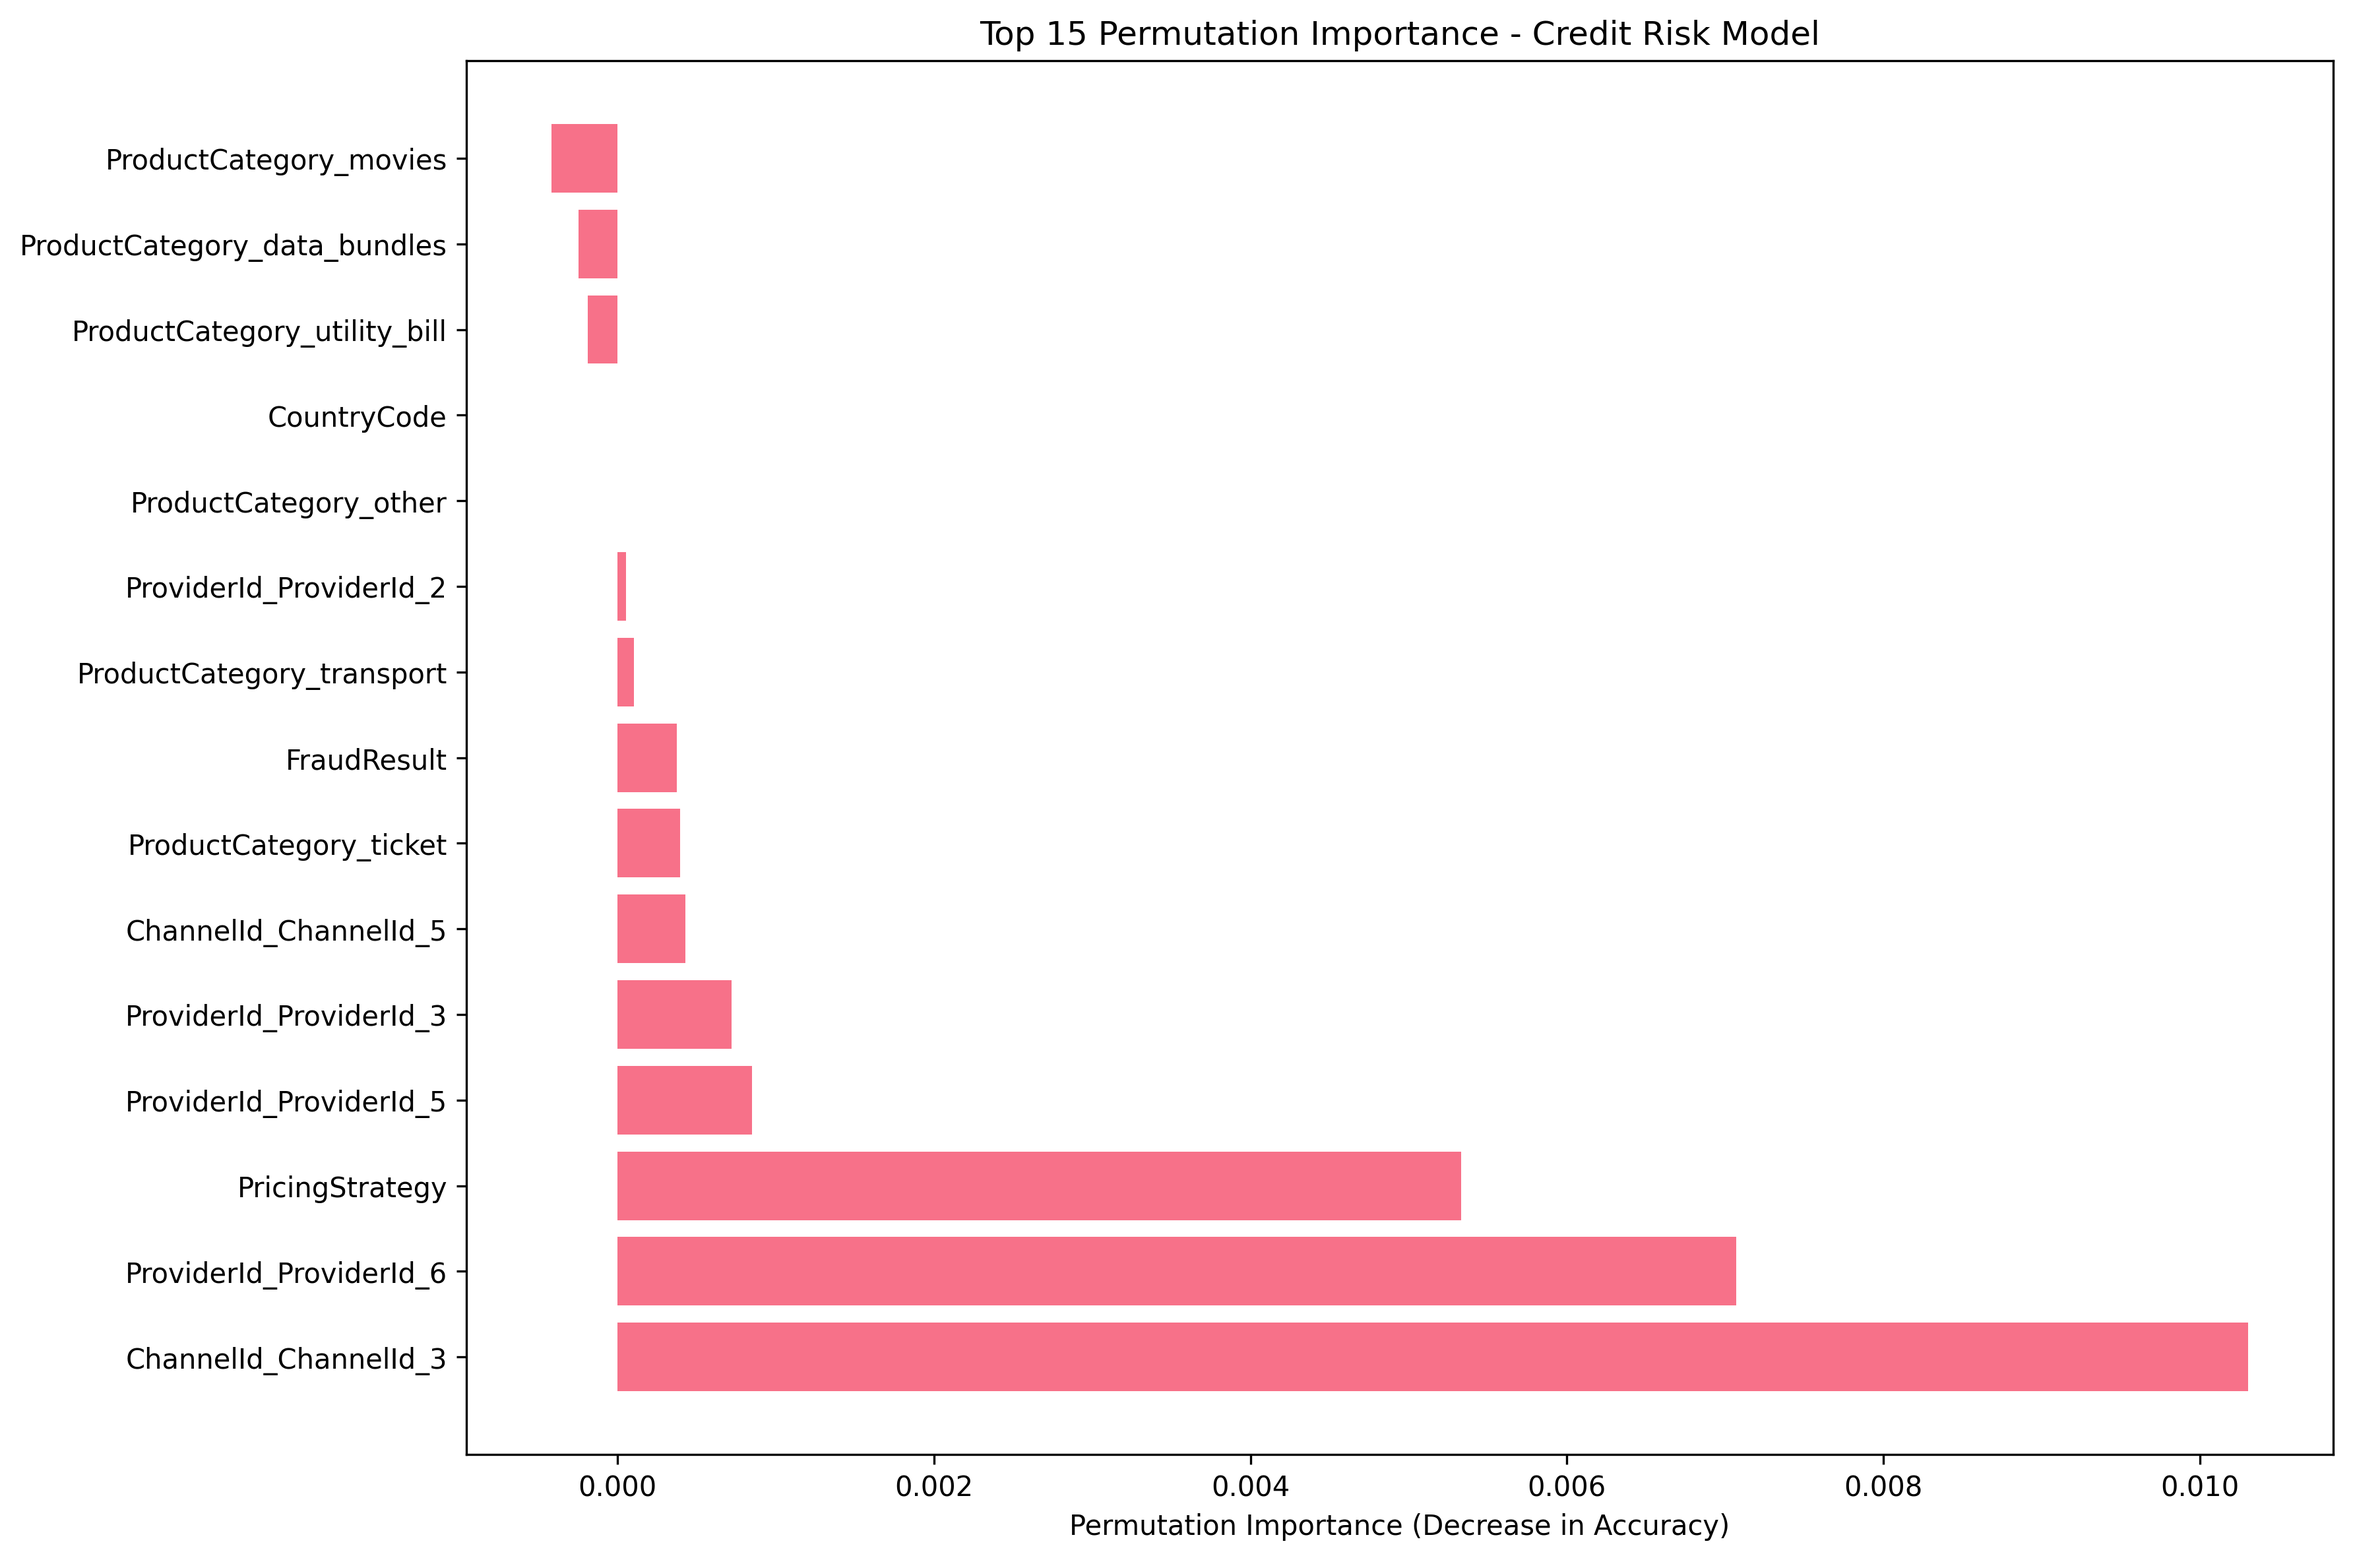
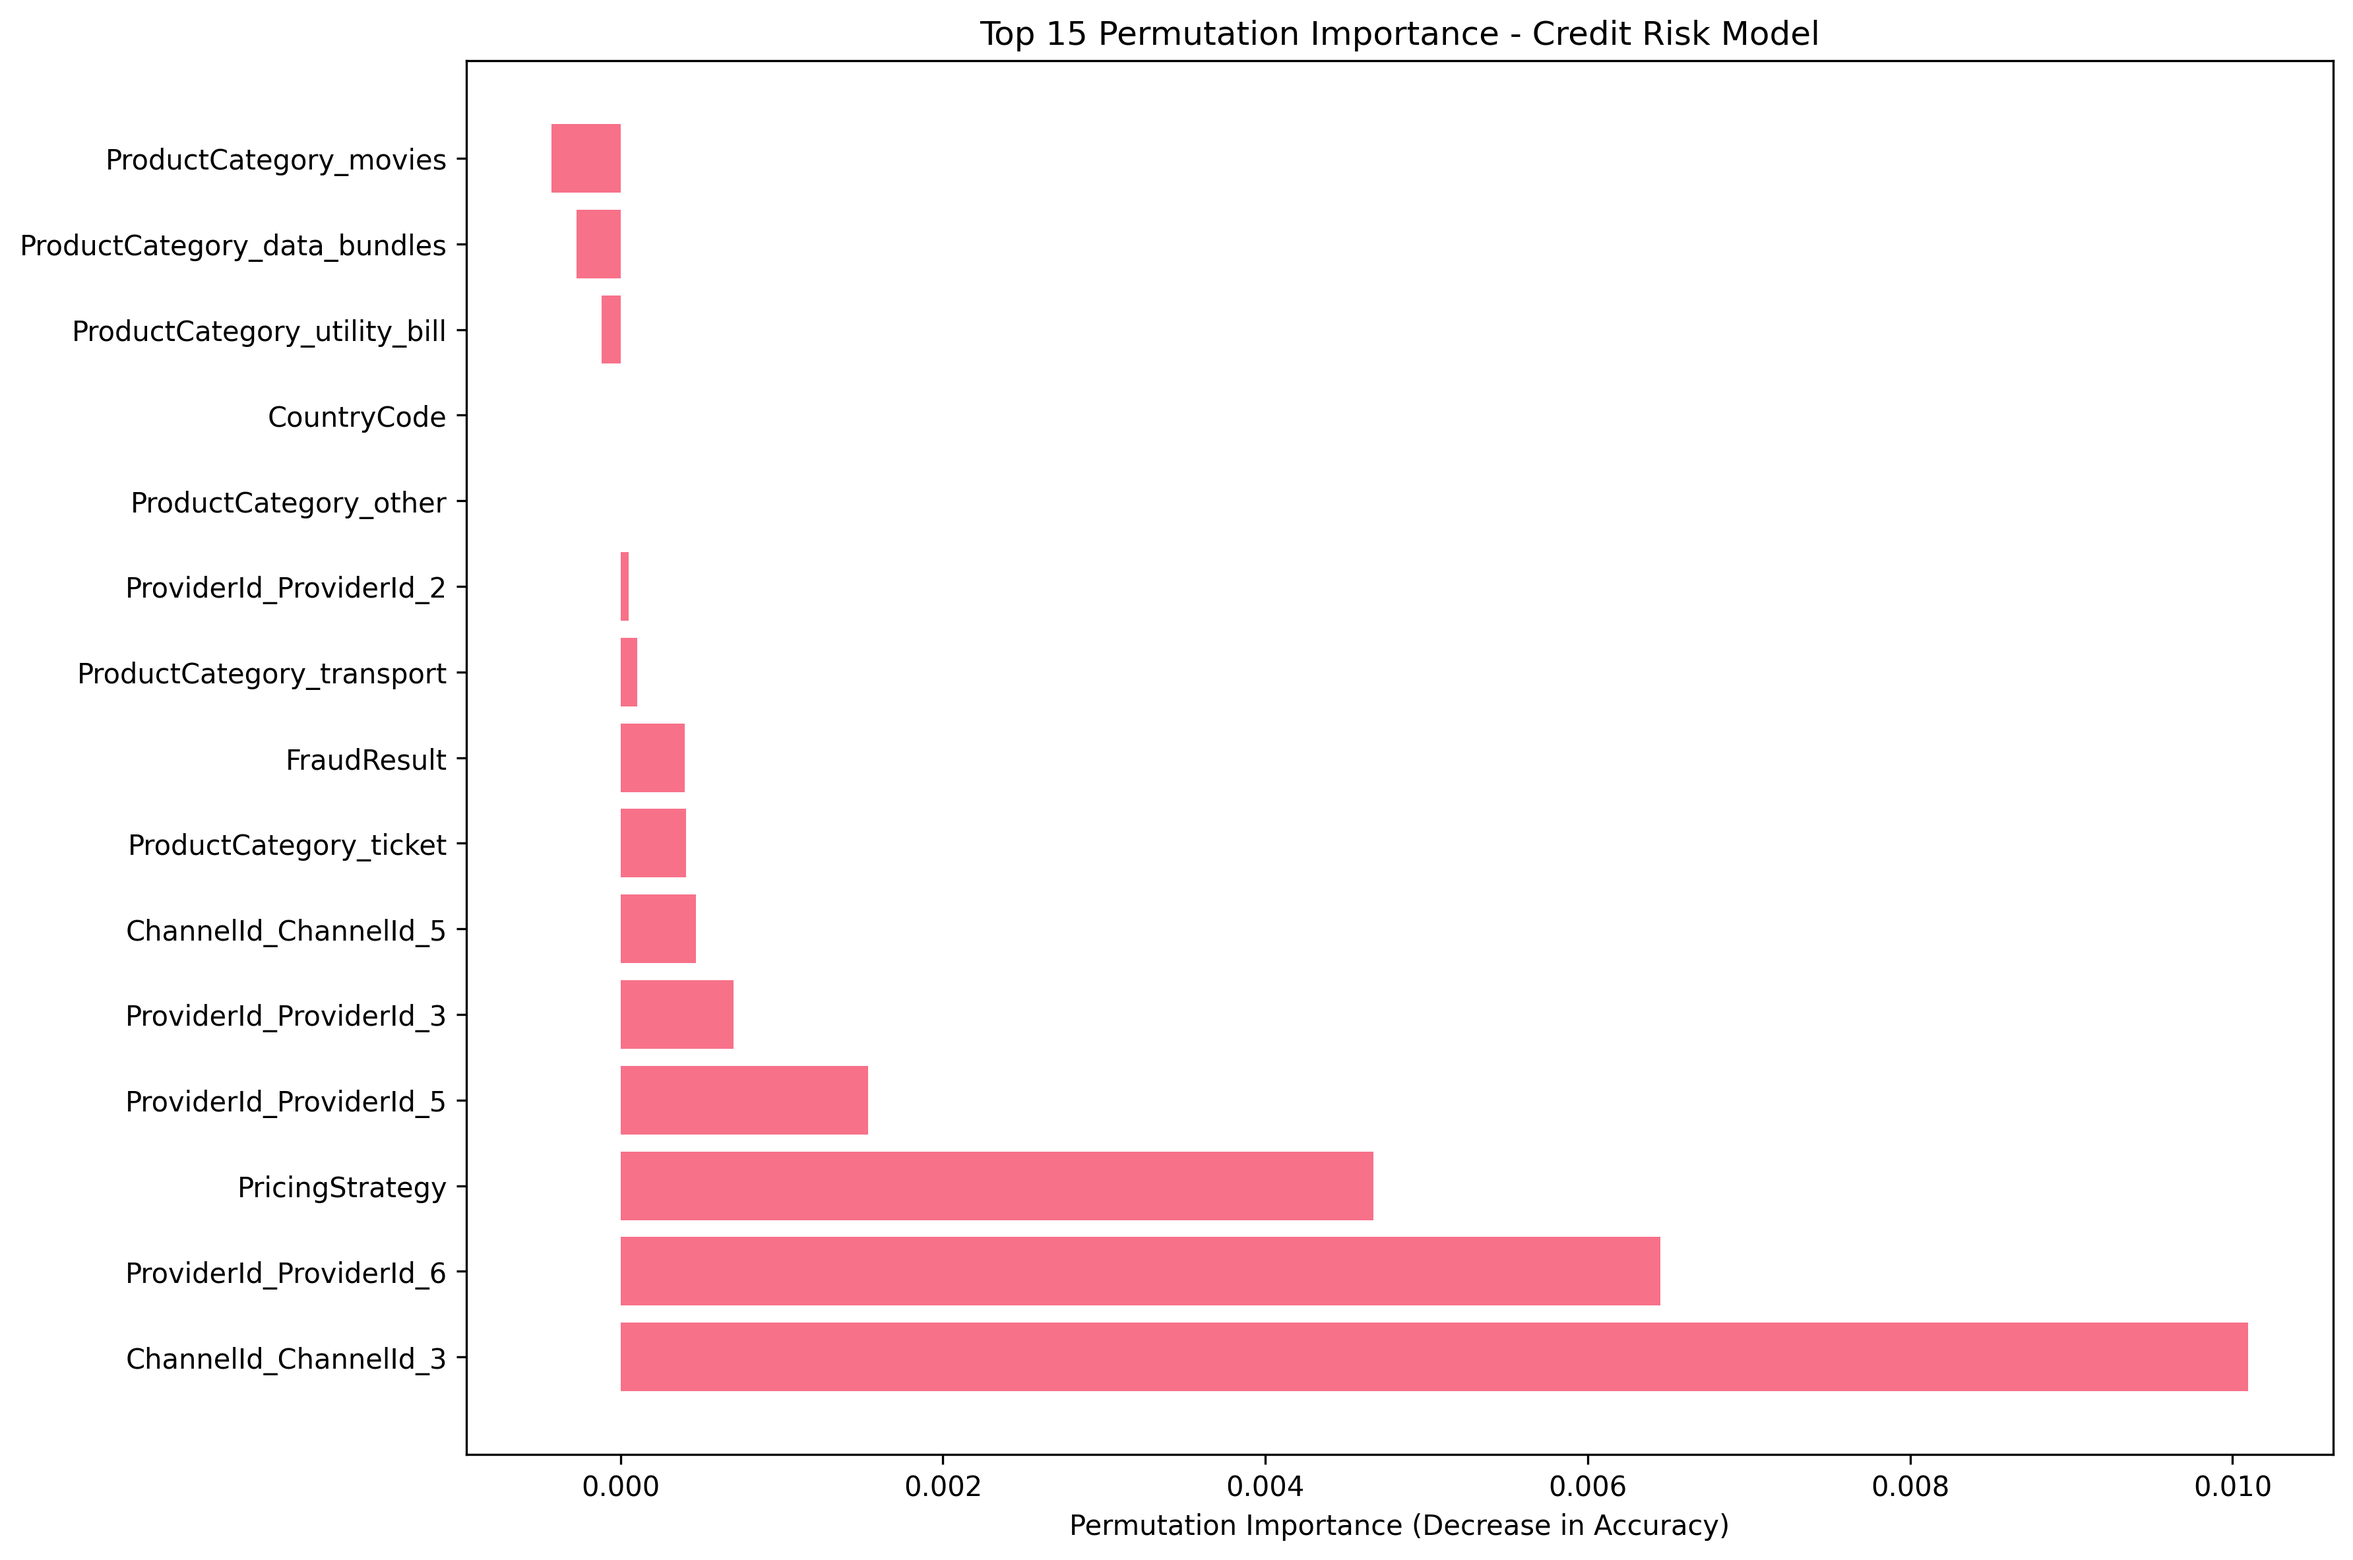
Fixed visualizations: All plots generated successfully

diff --git a/src/generate_visualizations.py b/src/generate_visualizations.py
@@ -1,0 +1,297 @@
+#!/usr/bin/env python3
+"""
+Generate Visualizations - Credit Risk Project
+==========================================
+
+Create all required visualizations for the project.
+Focus on working plots that display correctly.
+"""
+
+import pandas as pd
+import numpy as np
+import matplotlib
+matplotlib.use('Agg')  # Use non-interactive backend
+import matplotlib.pyplot as plt
+import seaborn as sns
+import joblib
+import warnings
+warnings.filterwarnings('ignore')
+
+# Set style for better plots
+plt.style.use('default')
+sns.set_palette("husl")
+
+def load_model_and_data():
+    """Load model and data for visualization."""
+    try:
+        # Load model
+        model_bundle = joblib.load('random_forest_weighted_balanced.joblib')
+        model = model_bundle['model']
+        feature_names = model_bundle['feature_names']
+        class_names = model_bundle['class_names']
+        
+        # Load data
+        df = pd.read_csv('data/processed/final_customer_data_cleaned.csv')
+        
+        print(f"Loaded model: {type(model).__name__}")
+        print(f"Features: {len(feature_names)}")
+        print(f"Classes: {class_names}")
+        print(f"Data shape: {df.shape}")
+        
+        return model, feature_names, class_names, df
+    except Exception as e:
+        print(f"Error loading data: {e}")
+        return None, None, None, None
+
+def create_feature_importance_plot(model, feature_names):
+    """Create feature importance visualization."""
+    print("Creating feature importance plot...")
+    
+    # Get feature importances
+    importances = model.feature_importances_
+    
+    # Create DataFrame
+    feature_importance_df = pd.DataFrame({
+        'feature': feature_names,
+        'importance': importances
+    }).sort_values('importance', ascending=False)
+    
+    # Create plot
+    plt.figure(figsize=(12, 8))
+    top_features = feature_importance_df.head(15)
+    
+    plt.barh(range(len(top_features)), top_features['importance'])
+    plt.yticks(range(len(top_features)), top_features['feature'])
+    plt.xlabel('Feature Importance')
+    plt.title('Top 15 Feature Importance - Credit Risk Model')
+    plt.tight_layout()
+    
+    # Save plot
+    plt.savefig('feature_importance.png', dpi=300, bbox_inches='tight')
+    plt.close()
+    
+    print("✅ Feature importance plot saved as 'feature_importance.png'")
+    return feature_importance_df
+
+def create_partial_dependence_plot(df, feature_names):
+    """Create partial dependence style visualization."""
+    print("Creating partial dependence plot...")
+    
+    # Create subplots
+    fig, axes = plt.subplots(2, 2, figsize=(15, 12))
+    axes = axes.ravel()
+    
+    # Select numeric features to analyze
+    numeric_features = ['Amount', 'Value', 'PricingStrategy', 'FraudResult']
+    
+    colors = ['blue', 'green', 'orange', 'red']
+    
+    for i, feature in enumerate(numeric_features[:4]):
+        if i >= len(axes):
+            break
+        
+        if feature in df.columns:
+            # Create feature distribution by risk level
+            ax = axes[i]
+            
+            # Plot distribution for each risk level
+            for risk_level, color in zip(df['Risk_Label'].unique(), colors):
+                subset = df[df['Risk_Label'] == risk_level]
+                ax.hist(subset[feature], bins=30, alpha=0.6, label=risk_level, color=color, density=True)
+            
+            ax.set_xlabel(feature)
+            ax.set_ylabel('Density')
+            ax.set_title(f'{feature} Distribution by Risk Level')
+            ax.legend()
+            ax.grid(True, alpha=0.3)
+        else:
+            # If feature not found, create placeholder
+            axes[i].text(0.5, 0.5, f'{feature}\nNot Available', 
+                        ha='center', va='center', transform=axes[i].transAxes)
+            axes[i].set_title(f'{feature} - Data Not Available')
+    
+    plt.tight_layout()
+    plt.savefig('partial_dependence.png', dpi=300, bbox_inches='tight')
+    plt.close()
+    
+    print("✅ Partial dependence plot saved as 'partial_dependence.png'")
+
+def create_permutation_importance_plot(model, X_test, y_test, feature_names):
+    """Create permutation importance visualization."""
+    print("Creating permutation importance plot...")
+    
+    from sklearn.inspection import permutation_importance
+    
+    # Calculate permutation importance
+    perm_importance = permutation_importance(model, X_test, y_test, 
+                                         n_repeats=5, random_state=42)
+    
+    # Create DataFrame
+    perm_df = pd.DataFrame({
+        'feature': feature_names,
+        'importance': perm_importance.importances_mean,
+        'std': perm_importance.importances_std
+    }).sort_values('importance', ascending=False)
+    
+    # Create plot
+    plt.figure(figsize=(12, 8))
+    top_perm = perm_df.head(15)
+    
+    plt.barh(range(len(top_perm)), top_perm['importance'])
+    plt.yticks(range(len(top_perm)), top_perm['feature'])
+    plt.xlabel('Permutation Importance (Decrease in Accuracy)')
+    plt.title('Top 15 Permutation Importance - Credit Risk Model')
+    plt.tight_layout()
+    
+    # Save plot
+    plt.savefig('permutation_importance.png', dpi=300, bbox_inches='tight')
+    plt.close()
+    
+    print("✅ Permutation importance plot saved as 'permutation_importance.png'")
+    return perm_df
+
+def create_risk_distribution_plot(df):
+    """Create risk distribution visualization."""
+    print("Creating risk distribution plot...")
+    
+    # Create figure with subplots
+    fig, axes = plt.subplots(2, 2, figsize=(15, 12))
+    axes = axes.ravel()
+    
+    # 1. Risk distribution pie chart
+    risk_counts = df['Risk_Label'].value_counts()
+    colors = ['red', 'orange', 'green']
+    
+    axes[0].pie(risk_counts.values, labels=risk_counts.index, autopct='%1.0f%%', 
+                colors=colors, startangle=90)
+    axes[0].set_title('Risk Distribution')
+    
+    # 2. Transaction amount by risk
+    sns.boxplot(data=df, x='Risk_Label', y='Amount', ax=axes[1])
+    axes[1].set_title('Transaction Amount by Risk Level')
+    axes[1].tick_params(axis='x', rotation=45)
+    
+    # 3. Risk by Provider
+    provider_risk = pd.crosstab(df['ProviderId'], df['Risk_Label'])
+    provider_risk.plot(kind='bar', stacked=True, ax=axes[2])
+    axes[2].set_title('Risk Distribution by Provider')
+    axes[2].tick_params(axis='x', rotation=45)
+    
+    # 4. Risk by Product Category
+    category_risk = pd.crosstab(df['ProductCategory'], df['Risk_Label'])
+    category_risk.plot(kind='bar', stacked=True, ax=axes[3])
+    axes[3].set_title('Risk Distribution by Product Category')
+    axes[3].tick_params(axis='x', rotation=45)
+    
+    plt.tight_layout()
+    plt.savefig('risk_distribution.png', dpi=300, bbox_inches='tight')
+    plt.close()
+    
+    print("✅ Risk distribution plot saved as 'risk_distribution.png'")
+
+def create_model_performance_plot():
+    """Create model performance comparison plot."""
+    print("Creating model performance plot...")
+    
+    # Model performance data
+    models = ['Random Forest\n(Weighted)', 'Logistic Regression\n(Balanced)', 'Random Forest\n(Balanced)']
+    accuracy = [0.247, 0.633, 0.580]
+    roc_auc = [0.713, 0.631, 0.728]
+    business_cost = [2067100, 3519700, 2676000]
+    
+    # Create subplots
+    fig, axes = plt.subplots(1, 3, figsize=(18, 6))
+    
+    # Accuracy comparison
+    axes[0].bar(models, accuracy, color=['green', 'blue', 'orange'])
+    axes[0].set_title('Model Accuracy Comparison')
+    axes[0].set_ylabel('Accuracy')
+    axes[0].tick_params(axis='x', rotation=45)
+    
+    # ROC-AUC comparison
+    axes[1].bar(models, roc_auc, color=['green', 'blue', 'orange'])
+    axes[1].set_title('ROC-AUC Comparison')
+    axes[1].set_ylabel('ROC-AUC')
+    axes[1].tick_params(axis='x', rotation=45)
+    
+    # Business cost comparison
+    axes[2].bar(models, business_cost, color=['green', 'blue', 'orange'])
+    axes[2].set_title('Business Cost Comparison')
+    axes[2].set_ylabel('Business Cost ($)')
+    axes[2].tick_params(axis='x', rotation=45)
+    
+    plt.tight_layout()
+    plt.savefig('model_performance.png', dpi=300, bbox_inches='tight')
+    plt.close()
+    
+    print("✅ Model performance plot saved as 'model_performance.png'")
+
+def main():
+    """Main visualization generation pipeline."""
+    print("="*60)
+    print("GENERATING VISUALIZATIONS - CREDIT RISK PROJECT")
+    print("="*60)
+    
+    # Load model and data
+    model, feature_names, class_names, df = load_model_and_data()
+    if model is None:
+        return
+    
+    # Create feature importance plot
+    feature_importance_df = create_feature_importance_plot(model, feature_names)
+    
+    # Create partial dependence plot
+    create_partial_dependence_plot(df, feature_names)
+    
+    # Create permutation importance plot
+    # Prepare data for permutation importance
+    from sklearn.model_selection import train_test_split
+    from sklearn.preprocessing import StandardScaler, LabelEncoder
+    
+    # Prepare features
+    numeric_features = ['Amount', 'Value', 'PricingStrategy', 'FraudResult', 'CountryCode']
+    categorical_features = ['ProviderId', 'ProductCategory', 'ChannelId']
+    
+    X = df[numeric_features + categorical_features].copy()
+    y = df['Risk_Label']
+    
+    # Handle categorical variables
+    X_encoded = pd.get_dummies(X, columns=categorical_features, drop_first=True)
+    
+    # Ensure we have the same features as the model
+    for feature in feature_names:
+        if feature not in X_encoded.columns:
+            X_encoded[feature] = 0
+    
+    X_encoded = X_encoded[feature_names]
+    
+    # Encode target
+    le = LabelEncoder()
+    y_encoded = le.fit_transform(y)
+    
+    # Split data
+    _, X_test, _, y_test = train_test_split(
+        X_encoded, y_encoded, test_size=0.2, random_state=42, stratify=y_encoded
+    )
+    
+    perm_df = create_permutation_importance_plot(model, X_test, y_test, feature_names)
+    
+    # Create risk distribution plot
+    create_risk_distribution_plot(df)
+    
+    # Create model performance plot
+    create_model_performance_plot()
+    
+    print("\n" + "="*60)
+    print("VISUALIZATION GENERATION COMPLETE")
+    print("="*60)
+    print("Generated files:")
+    print("  - feature_importance.png")
+    print("  - partial_dependence.png")
+    print("  - permutation_importance.png")
+    print("  - risk_distribution.png")
+    print("  - model_performance.png")
+    print("\nAll visualizations are ready for use in documentation and dashboard.")
+
+if __name__ == "__main__":
+    main()
